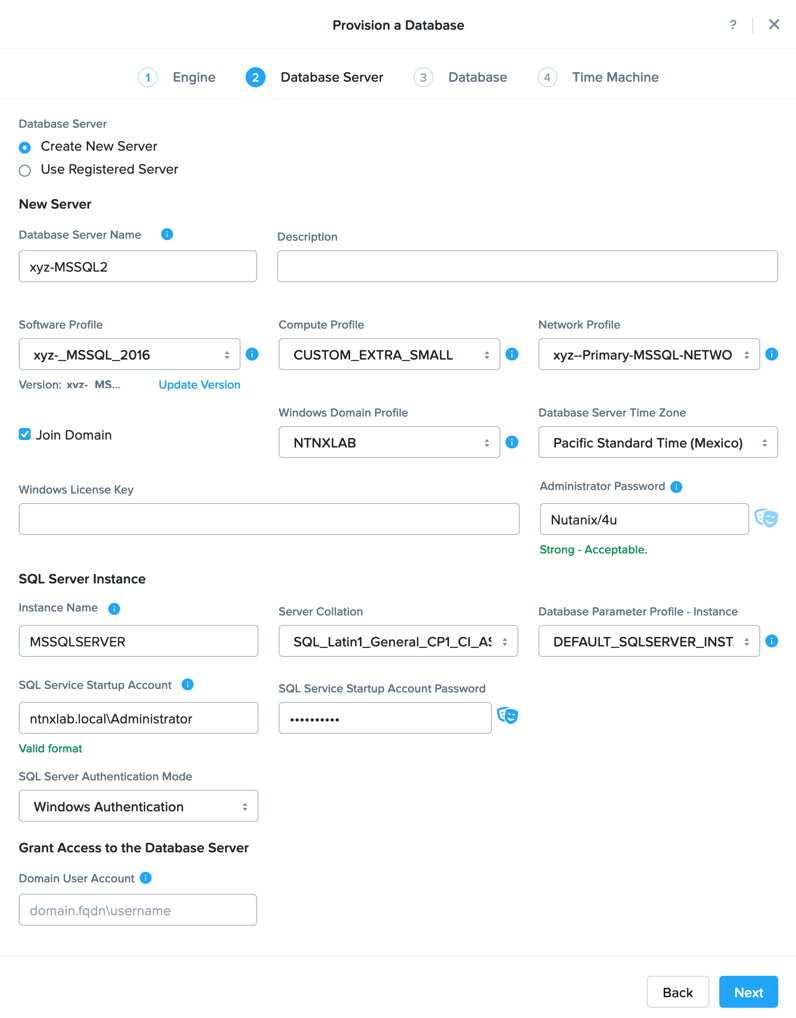
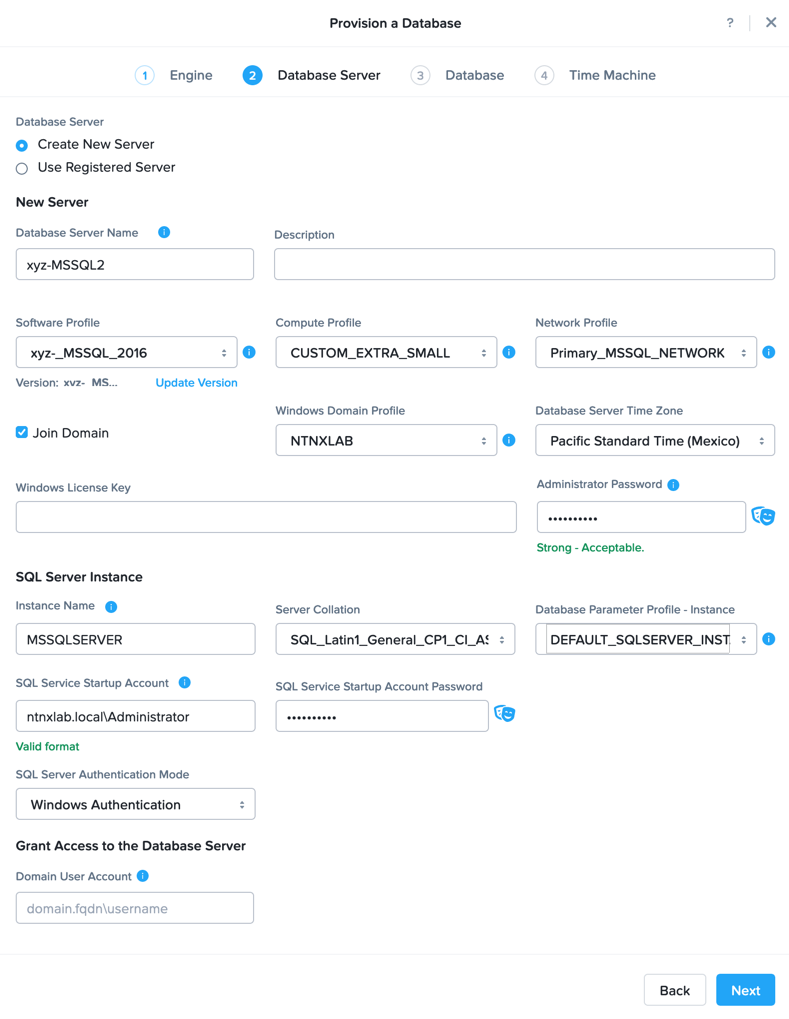
image Update

diff --git a/deploy_mssql_era/deploy_mssql_era.rst b/deploy_mssql_era/deploy_mssql_era.rst
@@ -27,7 +27,7 @@ You've completed all the one time operations required to be able to provision an
    - **Description** - (Optional)
    - **Software Profile** - *Initials*\ _MSSQL_2016
    - **Compute Profile** - CUSTOM_EXTRA_SMALL
-   - **Network Profile** - *Initials*\ -Primary_MSSQL_NETWORK
+   - **Network Profile** - Primary_MSSQL_NETWORK
    - **Database Time Zone** - Pacific Standard time
    - Select **Join Domain**
    - **Windows Domain Profile** - NTNXLAB
